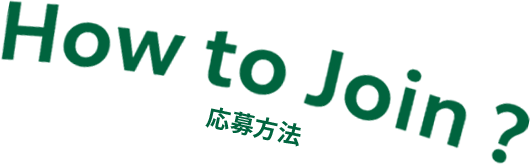
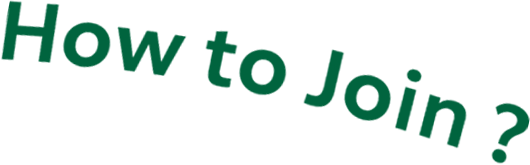
2までできた

Changed region(s): [[0.3925, 0.6364, 0.5736, 0.8788]]

diff --git a/index.html b/index.html
@@ -93,48 +93,41 @@
           <div id="make_video" class="block-make_video">
             <div class="_row-intro">
               <div class="_title">
-                <h3 class="mod-en">Let’s make a <br>video together !</h3>
+                <h3 class="mod-en">Let’s take a <br>picture together !</h3>
               </div>
-              <p class="_title2">スターバックス ×平井 大さん<br class="mod-sp">ホリデープログラムソング<br>「みんなの Love &amp; Happiness」<br
-                  class="mod-sp">ムービーに参加しよう！</p>
+              <p class="_title2">プレゼントを渡す、貰うときって<br class="mod-sp">一番嬉しいよね☺<br>その瞬間を写真に収めて<br
+                  class="mod-sp">みんなで共有しよ！！📸</p>
               <p class="_lead">
-                今年のスターバックスのホリデーテーマ"Let's Be a Santa"の考え方に賛同し、平井 大さんが作詞・作曲くださった2022ホリデープログラムソング「Love &amp; Happiness
-                (Let's Be a Santa)」。この曲に、皆さまから投稿いただいた「大切な人・モノ・時間」をのせたムービーを制作します。<br>
-                あなたの想いをシェアして、平井 大さんといっしょに「Love &amp; Happiness」を伝えませんか。
+                プレゼントを渡すときは、渡す人、渡される人、プレゼントの3点セットで記念写真を撮りましょう🙌<br>
+                LINEグループにプレゼント交換のアルバムを用意しておくので、そこにみんなで記念写真をあげちゃいましょう！<br>
+                「Love & Happiness」の想いをみんなでシェアしましょう💗
               </p>
-              <div class="_name">HIRAIDAI</div>
-              <div class="_p_prof"><img src="./files/p_prof.png" alt=""></div>
+              <!-- <div class="_name">HIRAIDAI</div>
+              <div class="_p_prof"><img src="./files/p_prof.png" alt=""></div> -->
             </div>
             <div class="_row-how">
               <div class="_title">
                 <div class="mod-pc"><img src="./files/title.png" alt=""></div>
                 <div class="mod-sp"><img src="./files/title_sp.png" alt=""></div>
               </div>
-              <div class="_sns"><img src="./files/sns.png" alt=""></div>
               <div class="_t1"><img src="./files/t1.png" alt=""></div>
               <p class="_t1b">
-                スマートフォンやカメラで、<br>あなたの「大切な人・モノ・時間」を動画撮影してください。
+                プレゼントを渡すときに、<br>
+                渡す人、渡される人、プレゼントの3点セットで記念写真を撮ってください！
               </p>
               <div class="_t2"><img src="./files/t2.png" alt=""></div>
               <p class="_t2b">
-                ご自身のSNSにて、ハッシュタグ<br>「#スターバックスLoveHappiness」をつけて、動画を投稿してください。InstagramおよびTikTokでは、Love &amp; Happiness
-                (Let's Be a Santa) ミュージックスタンプをつけて<br>ご投稿ください！
+                LINEグループの「セントラルプレゼント交換2022🎁」のアルバムに写真を投稿してください！🙌<br>
+                みんなの写真見るの楽しみです☺
               </p>
               <p class="_spec">
-                ■応募期間<br>
-                2022年11月1日(火) ～ 12月4日(日)23:59<br>
-                <br>
-                ■注意事項<br>
-                ◎動画サイズは縦長(16:9)、長さは10-15秒を推奨しています。<br>
-                ◎動画は必ずご自身で撮影したものを投稿してください。<br>
-                ◎ホリデープログラムムービーへの採用は、投稿いただいた動画の中から選定させていただきます。必ずしも採用させていただくものでは無い旨、予めご了承ください。<br>
-                ◎動画を採用させていただいた際には、編集・加工させていただく場合がございます。予めご了承ください。<br>
-                <br>
-                【応募規約】<br>
-                <span
-                  class="js-modal-note-opener _text-link">こちらの応募規約</span>をよくお読みいただき、同意の上キャンペーンにご参加ください。キャンペーンにご参加された場合、同意、保証したものとみなします。
+                ■詳細情報<br>
+                準備できた人から順次プレゼントを渡してもらって大丈夫です！一番乗りは誰かな〜？😏<br>
+                プレゼントは500円程度でお願いします！絶妙な価格設定すぎる〜〜〜！（あやさんの提案です😄）<br>
+                写真は縦でも横でも加工しても何枚でも何してもOK！楽しかったらなんでもOKです！🤩<br>
+                ちなみに、ランダムの振り分けはみんなのシフトの時間帯を考慮して自動で計算されるようにしました！なので時間帯が被る人にプレゼントを渡す、貰う感じになっているとは思うのですが、もし全然渡せないよー！って感じだったらごめんなさい〜🥹
               </p>
-              <div class="_movie js-modal-opener"><img src="./files/movie.png" alt=""></div>
+              <!-- <div class="_movie"><img src="./files/movie.png" alt=""></div> -->
             </div>
 
             <div class="_deco1 _deco"><img src="./files/p1.gif" alt=""></div>

diff --git a/files/index.css b/files/index.css
@@ -597,8 +597,8 @@ screen and (min-width: 1024px) {
 
   .block-make_video ._row-how ._t2 {
     position: absolute;
-    top: 50.32%;
-    left: 49.23%;
+    top: 51%;
+    left: 50%;
     width: 3.81%;
   }
 
@@ -610,7 +610,7 @@ screen and (min-width: 1024px) {
   }
 
   .block-make_video ._row-how ._t1b {
-    font-size: 1.66667vw;
+    font-size: 1.7vw;
     line-height: 1.5;
     font-weight: bold;
     color: #fff;
@@ -619,8 +619,8 @@ screen and (min-width: 1024px) {
   }
 
   .block-make_video ._row-how ._t2b {
-    font-size: 1.25vw;
-    line-height: 1.36;
+    font-size: 1.4vw;
+    line-height: 1.5;
     font-weight: bold;
     color: #fff;
     text-align: center;
@@ -629,7 +629,7 @@ screen and (min-width: 1024px) {
 
   .block-make_video ._row-how ._spec {
     font-size: 1.11111vw;
-    line-height: 1.54;
+    line-height: 1.8;
     color: #fff;
     font-weight: bold;
   }
@@ -647,12 +647,7 @@ screen and (min-width: 1024px) {
   }
 
   .block-make_video ._row-how ._movie {
-    cursor: pointer;
     transition-duration: 0.2s;
-  }
-
-  .block-make_video ._row-how ._movie:hover {
-    opacity: 0.95;
   }
 
   .block-make_video ._deco1 {
@@ -2008,8 +2003,8 @@ screen and (min-width: 1024px) {
 
   .block-make_video ._row-how ._t2 {
     position: absolute;
-    top: 293.6vw;
-    left: 54.66vw;
+    top: 300vw;
+    left: 48vw;
     width: 10.13vw;
   }
 
@@ -2037,8 +2032,8 @@ screen and (min-width: 1024px) {
   }
 
   .block-make_video ._row-how ._t2b {
-    font-size: 2.4vw;
-    line-height: 1.4;
+    font-size: 2.7vw;
+    line-height: 1.7;
     font-weight: bold;
     color: #fff;
     text-align: center;
@@ -2047,7 +2042,7 @@ screen and (min-width: 1024px) {
 
   .block-make_video ._row-how ._spec {
     font-size: 2.13333vw;
-    line-height: 1.5;
+    line-height: 1.8;
     color: #fff;
     font-weight: bold;
   }
